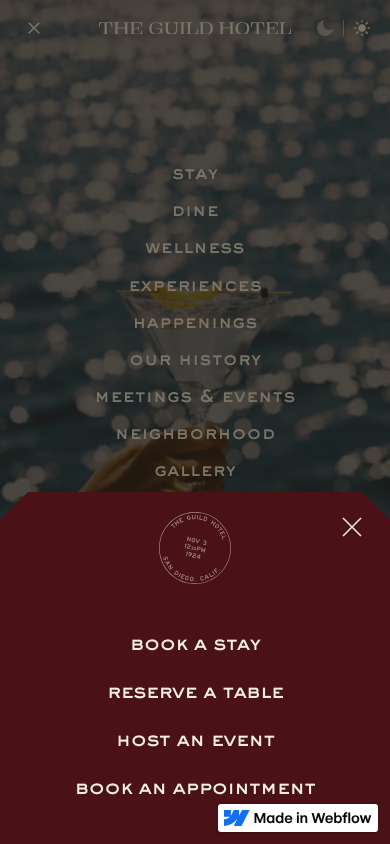
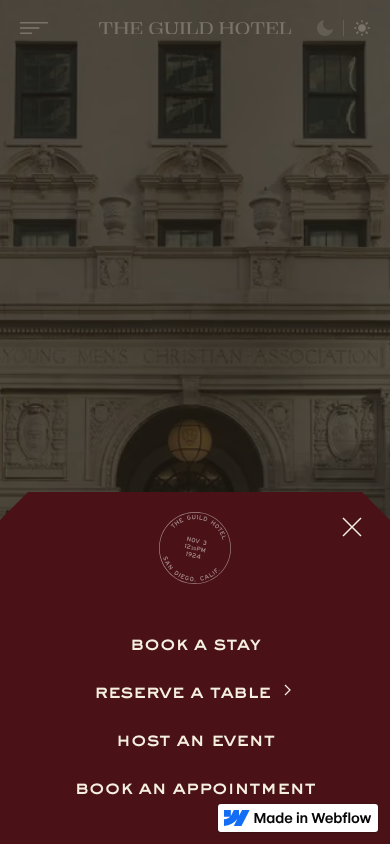
docs(m2): left-aligned desktop booking options, chevron on mobile

Changed region(s): [[0.0, 0.0, 1.0, 0.6161], [0.2462, 0.8009, 0.7385, 0.8318]]

diff --git a/docs/figma/build-plans/M2/plan.md b/docs/figma/build-plans/M2/plan.md
@@ -93,8 +93,9 @@ Staging at 390px and 1440px, pointer and keyboard: open from top bar Book Now (d
 
 Style and prop changes only, no code (live bundle v1.1.19 unchanged). Checked on staging at 1440 and 390 with the live bundle: flow, keyboard, scroll and hash all pass.
 
-1. **Desktop Book Now panel padding, centring, arrow:** the hidden header and column still took up space (header row-gap 6rem pushed the list down). Burgundy and Image Bg now hide `_header` and `_column`; Burgundy `_content` centres the list vertically (list top 139px against Figma 141px in the 434px panel) and centres each option; new **Item 2 arrow** prop shows an 18px chevron after "reserve a table" (desktop only, as in window-1).
+1. **Desktop Book Now panel padding, centring, arrow:** the hidden header and column still took up space (header row-gap 6rem pushed the list down). Burgundy and Image Bg now hide `_header` and `_column`; Burgundy `_content` centres the list vertically (list top 139px against Figma 141px in the 434px panel); new **Item 2 arrow** prop shows an 18px chevron after "reserve a table" (see item 6 for alignment).
 2. **Desktop venue list background:** the dialog's flex row stretched the panel to the viewport height (900px) while the venues ran to 1447px. Image Bg `_component` now aligns items to the start, so the maroon panel grows with the list.
 3. **Mobile stamp to options gap:** a base small rule added `margin-top: 1.75rem` to `_list` and `padding: 14px 0` to `_item`. Both booking variants reset them at medium and small; stamp to first option is now 40px and the option pitch 48px, as in Figma.
 4. **Mobile venue list gap:** same list margin plus the hidden header; first venue now starts 40px below the back, wordmark and close bar, as in Figma.
 5. **Mobile menu hairline:** `site-nav_menu-footer` at small gets a 1px top border in cream at 0.32 opacity, inset 20px each side with 16px above the address (Figma `2 · Menu`, node 1243:19241). Desktop unchanged.
+6. **Follow-up from Stephen:** desktop options are left aligned (left padding 3.375rem, as in window-1) and the list stays centred vertically in the panel. The chevron also shows on mobile, after "reserve a table" in the centred list.

diff --git a/docs/reference/webflow-ids.md b/docs/reference/webflow-ids.md
@@ -360,4 +360,4 @@ Plan and specs: `docs/figma/build-plans/M2/`.
 - Dinings Template `text-columns-info_footer` `ef08e59e-e1c8-4fa5-2e4a-441796698213`; "browse the menu" `52aa9b80-c93e-4cba-93d4-a8b9a21a9bc0`; "discover {name}" link block `eeea8d64-cd44-b37b-cbe1-36d7c4f43bd8` (href = `venue-site-link`, hidden until a "is set" condition is added), name span `ace5e8eb-31d5-3a08-081e-747b03cb5dbc`.
 - Dinings field ids: Name `70ed532b8264438896ea60b6c714cb42`, Venue site link `f3d113ca4d82d0432a5b95ea45788c6d`.
 - Style ids: `article-card-staggered_component` `1dfea01d-7b6b-d601-1af4-f839882d2c25`, its `is-right` combo `2b5ed087-cb62-4c51-49f1-90ece5e3967f`, `article-card-staggered_header.is-right` `abc99c11-07dd-a77d-609b-1fc1dfa80dc0`, `gallery-all_grid` `8038febe-99b0-d824-f8b3-4583200cc6e2`, `text-columns-info_link` `55f0dad8-f633-e2e9-9636-ec48766ef19d`.
-- Feedback round 1: Overlay Detail Panel Modal prop Item 2 arrow `fdd9647a-7a7b-2c2a-6570-e5fdbf8b8f58` (boolean, default off, on in Booking Menu's Book Now instance); chevron embed `7db7c2d6-1db6-69d4-c57a-a0deaa632c7d` after the item 2 button, class `overlay-detail-panel-modal_item-arrow` `9fb123fc-e2a7-5ac6-f091-882ae05ba5a8` (shown only on Burgundy at desktop).
+- Feedback round 1: Overlay Detail Panel Modal prop Item 2 arrow `fdd9647a-7a7b-2c2a-6570-e5fdbf8b8f58` (boolean, default off, on in Booking Menu's Book Now instance); chevron embed `7db7c2d6-1db6-69d4-c57a-a0deaa632c7d` after the item 2 button, class `overlay-detail-panel-modal_item-arrow` `9fb123fc-e2a7-5ac6-f091-882ae05ba5a8` (shown only on the Burgundy variant, desktop and mobile).
